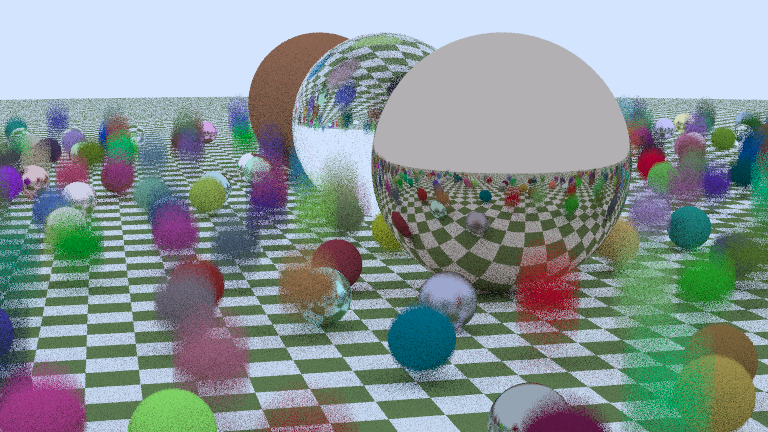
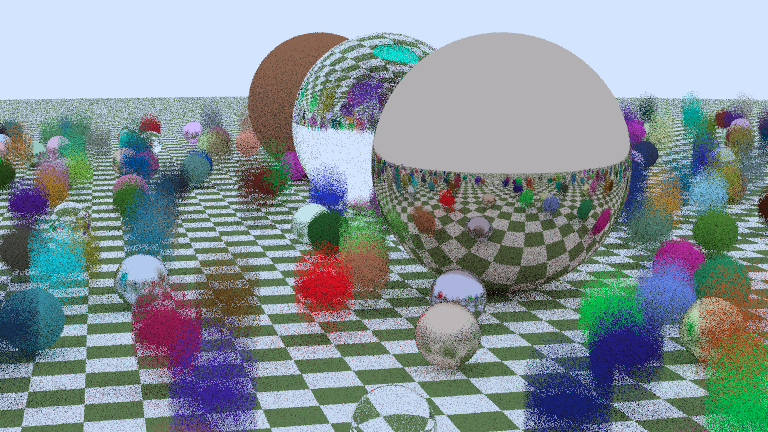
Finished first draft of section 'Averaging N Photos'

diff --git a/books/RayTracingTheNextMonth.html b/books/RayTracingTheNextMonth.html
@@ -131,7 +131,7 @@ If you have a comfortable and working familiarity with multithreading you can sa
 last section of this chapter. The work leading up to then is mostly theory.
 
 Averaging N Photos
-----------------------------------------------------------------------------------------------------
+-------------------
 
 We can start with an instructive, if limiting, exercise. Don't worry about implementing any of the
 changes seen in this section, they're meant for instruction, not implementation.
@@ -162,8 +162,8 @@ and scene build up, but 99.9% of our runtime exists within this code block. A fe
 
 1. It's a triply-nest loop, meaning it has 3 layers of `for` loops
 2. We would expect that `ray_color` is where the majority of our runtime comes from
-3. The number of `ray_color` invocations appears to scale with
-`image_height`*`image_width`*`samples_per_pixel`
+3. The number of `ray_color` invocations appears to scale with $image\_height * image\_width *
+samples\_per\_pixel$
 
 If you've played around with image dimension or pixel sampling, you'll have noticed that the program
 time of your render will have scaled linearly with the number of pixels or their sample count. If we
@@ -215,7 +215,7 @@ won't need to explicitly combine the images to follow along.
 When we use a photo editor to combine our two 4spp images we get:
   <div class="render">
 
-  ![Two checker scene renders averaged](../images/img.book2-final_4spp.png)
+  ![Two checker scene renders averaged](../images/img.checker-scene_4spp.png)
 
   </div>
 
@@ -323,32 +323,161 @@ Indeed, we do:
 
   </div>
 
+So it looks like we have successfully changed the seed for the render and now, each time we run the
+program, we get different random numbers, so a different sampling of the image. A bigger problem has
+appeared though: The change in seed has also changed the location of the smaller sphere in our
+scene. If we were to just average these two photos all of the smaller spheres would appear to be at
+50% transparency and everything would look like it has motion blur active.
 
-<!-- "Show off new averaging"--> 
+Let's look at our scene setup:
 
-<!-- "Explain why it fails for random parts of our scene"--> 
+    ~~~~~~~~~~~~~~~~~~~~~~~~~~~~~~~~~~~~~~~~~~~~~~~~~~~~~~~~~~~~~~~~~~~~~~~~~~~~~~~~~~~~~~~~~~~~ C++
+    hittable_list random_scene() {
+        hittable_list world;
 
-<!-- "Say that we can map random parts of the scene to a constant seed"-->
+        auto checker = make_shared<checker_texture>(
+            make_shared<constant_texture>(vec3(0.2, 0.3, 0.1)),
+            make_shared<constant_texture>(vec3(0.9, 0.9, 0.9))
+        );
+
+        world.add(make_shared<sphere>(vec3(0,-1000,0), 1000, make_shared<lambertian>(checker)));
+
+        for (int a = -10; a < 10; a++) {
+            for (int b = -10; b < 10; b++) {
+    ~~~~~~~~~~~~~~~~~~~~~~~~~~~~~~~~~~~~~~~~~~~~~~~~~~~~~~~~~~~~~~~~~~~~~~~~~~~~~~~~~~ C++ highlight
+                auto choose_mat = random_double();
+                vec3 center(a + 0.9*random_double(), 0.2, b + 0.9*random_double());
+                if ((center - vec3(4, .2, 0)).length() > 0.9) {
+                    if (choose_mat < 0.8) {
+                        // diffuse
+                        auto albedo = vec3::random() * vec3::random();
+                        world.add(make_shared<moving_sphere>(
+                            center, center + vec3(0, random_double(0,.5), 0), 0.0, 1.0, 0.2,
+                            make_shared<lambertian>(make_shared<constant_texture>(albedo))
+                        ));
+                    } else if (choose_mat < 0.95) {
+                        // metal
+                        auto albedo = vec3::random(.5, 1);
+                        auto fuzz = random_double(0, .5);
+                        world.add(
+                            make_shared<sphere>(center, 0.2, make_shared<metal>(albedo, fuzz)));
+                    } else {
+                        // glass
+                        world.add(make_shared<sphere>(center, 0.2, make_shared<dielectric>(1.5)));
+                    }
+                }
+    ~~~~~~~~~~~~~~~~~~~~~~~~~~~~~~~~~~~~~~~~~~~~~~~~~~~~~~~~~~~~~~~~~~~~~~~~~~~~~~~~~~~~~~~~~~~~ C++
+            }
+        }
+
+        world.add(make_shared<sphere>(vec3(0, 1, 0), 1.0, make_shared<dielectric>(1.5)));
+        world.add(make_shared<sphere>(
+            vec3(-4, 1, 0), 1.0,
+            make_shared<lambertian>(make_shared<constant_texture>(vec3(0.4, 0.2, 0.1)))
+        ));
+        world.add(
+            make_shared<sphere>(vec3(4, 1, 0), 1.0, make_shared<metal>(vec3(0.7, 0.6, 0.5), 0.0)));
+
+        return hittable_list(make_shared<bvh_node>(world, 0.0, 1.0));
+    }
+    ~~~~~~~~~~~~~~~~~~~~~~~~~~~~~~~~~~~~~~~~~~~~~~~~~~~~~~~~~~~~~~~~~~~~~~~~~~~~~~~~~~~~~~~~~~~~~~~~
+    [Listing [random-scene]: <kbd>[main.cc]</kbd> The declaration of the checker_scene with highlighting]
+
+
+There are a bunch of declarations in the middle that use random numbers to generate the scene. The
+very first thing to come to mind is that we should go and replace all those random number calls
+with fixed values, so that they don't change between draws. This will work, however, we can be a
+bit more clever than that. We naively called `srand` right at the beginning of the `main`
+invocation. We can push setting the seed to after we define our checker scene. Making sure that we
+still call `srand` before we produce random numbers for sampling!
+
+    ~~~~~~~~~~~~~~~~~~~~~~~~~~~~~~~~~~~~~~~~~~~~~~~~~~~~~~~~~~~~~~~~~~~~~~~~~~~~~~~~~~~~~~~~~~~~ C++
+    #include <iostream>
+    #include <ctime>
+    ...
+    int main() {
+    ~~~~~~~~~~~~~~~~~~~~~~~~~~~~~~~~~~~~~~~~~~~~~~~~~~~~~~~~~~~~~~~~~~~~~~~~~~~~~~~~~~ C++ highlight
+        // remove srand
+    ~~~~~~~~~~~~~~~~~~~~~~~~~~~~~~~~~~~~~~~~~~~~~~~~~~~~~~~~~~~~~~~~~~~~~~~~~~~~~~~~~~~~~~~~~~~~ C++
+        const auto aspect_ratio = 16.0/9.0;
+        const int image_width = 768;
+        const int image_height = image_width / aspect_ratio;
+        ...
+
+        // Invoke random_scene
+
+        ...
+
+    ~~~~~~~~~~~~~~~~~~~~~~~~~~~~~~~~~~~~~~~~~~~~~~~~~~~~~~~~~~~~~~~~~~~~~~~~~~~~~~~~~~ C++ highlight
+        srand(time(NULL));
+    ~~~~~~~~~~~~~~~~~~~~~~~~~~~~~~~~~~~~~~~~~~~~~~~~~~~~~~~~~~~~~~~~~~~~~~~~~~~~~~~~~~~~~~~~~~~~ C++
+
+        std::cout << "P3\n" << image_width << ' ' << image_height << "\n255\n";
+
+        camera cam(lookfrom, lookat, vup, vfov, aspect_ratio, aperture, dist_to_focus, 0.0, 1.0);
+
+        for (int j = image_height-1; j >= 0; --j) {
+            std::cerr << "\rScanlines remaining: " << j << ' ' << std::flush;
+            for (int i = 0; i < image_width; ++i) {
+                vec3 color;
+                for (int s = 0; s < samples_per_pixel; ++s) {
+                    auto u = (i + random_double()) / image_width;
+                    auto v = (j + random_double()) / image_height;
+                    ray r = cam.get_ray(u, v);
+                    color += ray_color(r, background, world, max_depth);
+                }
+                color.write_color(std::cout, samples_per_pixel);
+            }
+        }
+
+        std::cerr << "\nDone.\n";
+    ~~~~~~~~~~~~~~~~~~~~~~~~~~~~~~~~~~~~~~~~~~~~~~~~~~~~~~~~~~~~~~~~~~~~~~~~~~~~~~~~~~~~~~~~~~~~~~~~
+    [Listing [changing-rand-seed]: <kbd>[main.cc]</kbd> Changing the seed for rand on program start]
+
+When we run 2 instances of the program we get:
+
+  <div class="render">
+
+  ![The checker scene with later seed reset (first seed)](../images/img.checker-scene_seed-after-1_4spp.png)
+
+  </div>
+
+  <div class="render">
+
+  ![The checker scene with later seed reset (second seed)](../images/img.checker-scene_seed-after-2_4spp.png)
+
+  </div>
+
+Which have the same scene, and appear to have slightly different sampling. When combined we get an
+accurate 8 sample per pixel render:
+
+  <div class="render">
+
+  ![The checker scene with combined seed reset](../images/img.checker-scene_seed-after_8spp.png)
+
+  </div>
+
+That was a lot to do about random numbers, but we mostly came to a simple final solution.
 
 The lesson here is that if you have multiple runs of a render you need to be cognizant of where your
 random numbers are coming from, and where they are going. Something that hasn't been mentioned until
-now needs to be brought up. It's perhaps a bit strange that `rand` starts with the seed every time
-until the programmer explicitly changes it. For a function that is producing random numbers, a naive
-assumption would be that `rand` should be producing _different_ random numbers each time, and so
-**should** be starting with a different seed every time.
+now needs to be brought up. It's perhaps a bit strange that `rand` starts with the same seed every
+time until the programmer explicitly changes it. For a function that is producing random numbers, a
+naive assumption would be that `rand` should be producing _different_ random numbers each time, and
+so **should** be starting with a different seed every time.
 
 However, this isn't the case in practice, and `rand` always starts with a specific seed. Indeed,
-this is the default, as it is desirable for a random number generator to have a specific seed.
-Between different runs of our renderer, as we increase samples per pixel or make edits to our code,
-we want code that is functionally the same to produce an identical image. If accidentally introduce
-a bug to our code, we want our output to change, indeed we only want our output to change when our
-code has become functionally different. If our random number generator (`rand`) produced different
-images between one run and the next, we would have a much more difficult time knowing if the changes
-are due to `rand` or are due to a bug we accidentally introduced.
+this is the default, as it is desirable for a random number generator to have a specific default
+seed. Between different runs of our renderer, as we increase samples per pixel or make edits to our
+code, we want code that is functionally the same to produce an identical image. If we accidentally
+introduce a bug to our code, we want our output to change. Indeed, we only want our output to
+change when our code has become functionally different. If our random number generator (`rand`)
+produced different images between one run and the next, we would have a much more difficult time
+knowing if the image changes are due to `rand` or are due to a bug we accidentally introduced.
 
 
 Spinning Up C++ Threads
-----------------------------------------------------------------------------------------------------
+------------------------
 
 Averaging multiple photos is a viable option and can be a quick way to take advantage of the
 parallel nature of your hardware. But there is a long list of things to consider when doing it
